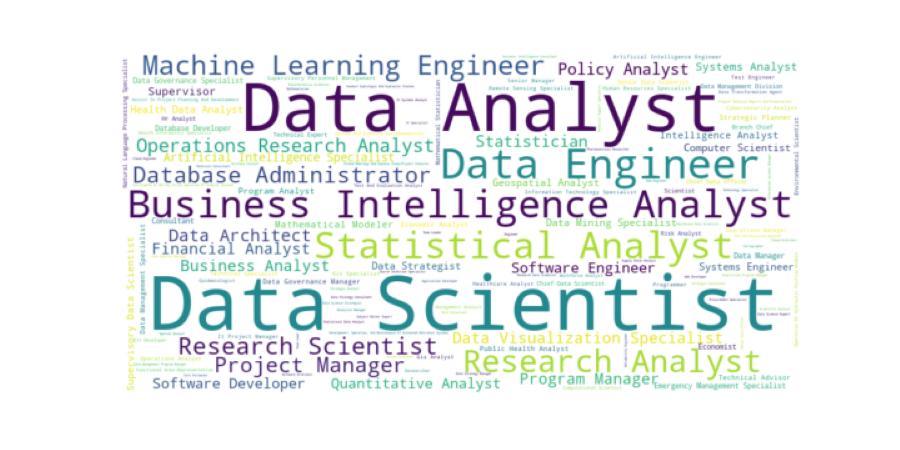
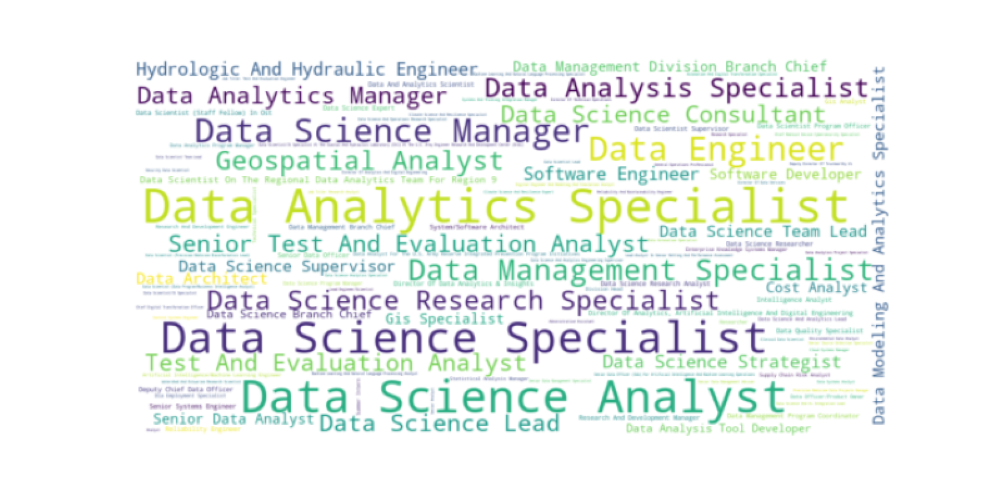
-new presentation draft with update results from marvin

diff --git a/slides.md b/slides.md
@@ -10,7 +10,7 @@ Author: Abigail Haddad Date: October 19, 2023
 
 ------------------------------------------------------------------------
 
-# I'm a data scientist, not a {data analyst, business intelligence analyst, software engineer}
+# I'm a data scientist, not a {data analyst, business intelligence analyst, software engineer, program manager}
 
 # 
 
@@ -51,20 +51,6 @@ Author: Abigail Haddad Date: October 19, 2023
 
 ------------------------------------------------------------------------
 
-# Assessing classification problems
-
-## Derivative metrics
-
-| **Metric**                            | **Value** |
-|---------------------------------------|-----------|
-| Recall (True Positive Rate)           | 95%       |
-| Specificity (True Negative Rate)      | 94%       |
-| Precision (Positive Predictive Value) | 94%       |
-| NPV (Negative Predictive Value)       | 95%       |
-
-------------------------------------------------------------------------
-
-# 
 
 # Back to USAJobs Listings
 
@@ -74,40 +60,47 @@ Author: Abigail Haddad Date: October 19, 2023
 
 # Example 'Duties' Text
 
-![center](images/duties_no_highlights.jpg)
+![center](images/data_engineer_duties.jpg)
 
 ------------------------------------------------------------------------
 
-# Example 'Duties' Text with Highlights
+# This position is officially titled "Data Scientist"
 
-![center](images/duties_highlight.jpg)
+* My model accurately identified it "Data Engineer"
+* Also, this position is misclassified! It's a 2210
+* This is the kind of analysis we can do with this model
 
 ------------------------------------------------------------------------
 
 ## **We can't overcome text ambiguity problems with LLMs. If the information isn't there, it's not there.**
 
+
+------------------------------------------------------------------------
+
+# I'm not going to say who did this
+
+![center](images/cool_story_bro.jpg)
+
+
+
 ------------------------------------------------------------------------
 
 # My MVP Project Workflow
 
-1.  Pulled 843 1560 Data Scientist job listings.
+1.  Pulled ~850 1560 Data Scientist job listings.
 2.  Dropped those with no duty list via length/keyword filter.
-3.  Multi-label classification via GPT-3.5 3a. Assess consistency scores/inter-rater reliability
-4.  Analysis of results 4a. BERT encoding of labels, clustering. 4b. GPT labels of clusters 4c. Word cloud 4d. Ad hoc validation of results
+3.  Used the Marvin library to get structured output from GPT 3.5 for several problems, including the multi-class classification problem.
+4. Ad hoc analysis, iteration
 
 ------------------------------------------------------------------------
 
-# What can we actually get from this?
 
- 
+# The only (Python) code you need
 
- 
+## Or why you should use Marvin (even if you're working in R)
 
- 
+![center](images/only_code_you_need.jpg)
 
- 
-
- 
 
 ------------------------------------------------------------------------
 
@@ -115,8 +108,10 @@ Author: Abigail Haddad Date: October 19, 2023
 
 -   A view of the variety of different roles that are under 1560
 -   A prototype job labeling system for applicants
--   A way to highlight jobs that might be mislabeled or challenging to hire for
+-   A way to highlight jobs that might be mislabeled, challenging to hire for, or misclassified
 -   A variable that might be predictive for research and analysis
+
+------------------------------------------------------------------------
 
 # What this can't be
 
@@ -125,107 +120,65 @@ Author: Abigail Haddad Date: October 19, 2023
 
 ------------------------------------------------------------------------
 
+# What Did We Get? 
 
-
- 
-
- 
-
- 
-
- 
-
- 
-
- 
-
- 
-
- 
-
- 
-
- 
-
-![bg](images/wordcloud.jpeg)
+1. Overall differences in top titles
+2. Job titles that never appear in the official title field
+3. Spot checks
 
 ------------------------------------------------------------------------
 
-| Cluster                               | \%  | Top 5 Titles                                                                                        |
-|----------------|----------------|-----------------------------------------|
-| Data & Project Management             | 34  | Data Scientist, Project Manager, Data Analyst, Program Manager, Supervisor                          |
-| Core Data Science & Engineering       | 22  | Data Scientist, Data Analyst, Machine Learning Engineer, Data Engineer, Statistical Analyst         |
-| Data Science & Research               | 17  | Data Scientist, Data Analyst, Research Scientist, Data Engineer, Database Administrator             |
-| Data Strategy & Specialization        | 16  | Data Analyst, Data Strategist, Geospatial Analyst, Supervisory Data Scientist, Chief Data Scientist |
-| Data Analysis & Research Intelligence | 10  | Data Analyst, Data Scientist, Business Intelligence Analyst, Statistical Analyst, Research Analyst  |
+### Comparing Top 10 Job Titles -- LLM vs. Official
+#
+
+![center](images/top_n_titles.png)
 
 ------------------------------------------------------------------------
 
-# Spot Checking Title Sets
+###
+# New Job Titles
+
+### Some of these are descriptive 🌟🌟🌟
+
+![center](images/wordcloud.png)
+
+------------------------------------------------------------------------
+
+
+# Examples of big title discrepencies
 
 ---
 
-# Data Scientist, Data Analyst, Software Engineer
+## Generated Title: Data Analyst
 
-![center](images/data_sci_data_analyst_software_dev.jpg)
-
----
-
-# Data Scientist, Data Analyst, Business Intelligence Analyst, Machine Learning Engineer, Artificial Intelligence Specialist, Data Engineer
-
-![center](images/data_sci_data_analyst_ml_ai.jpg)
+![center](images/data_analyst.jpg)
 
 ---
 
-# Data [Analyst, Architect, Scientist Manager]
+## Generated Title: Technical Program Manager
 
-![center](images/data_architect.jpg)
+![center](images/tpm.jpg)
+
 
 ----
 
 What's better than ad hoc assessment?
 
-**Systematic assessment!**
+**🎉 Systematic assessment! 🎉**
 
 ------------------------------------------------------------------------
 
-# Derivative Metrics Revisited
 
-| Metric Name               | Acronym | Definition                                                                                            |
-|-------------------------------|------------------|-----------------------|
-| Recall                    | TPR     | The percentage of actual positives that the model correctly identified.                               |
-| Specificity               | TNR     | The percentage of actual negatives that the model correctly identified.                               |
-| Precision                 | PPV     | Out of all the instances labeled as positives by the model, the percentage that are actual positives. |
-| Negative Predictive Value | NPV     | Out of all the instances labeled as negatives by the model, the percentage that are actual negatives. |
+# I tried a lot of other things, too
+
+* Named entity recognition for finding tools and software 🚀 
+* Grouping by category (BI intelligence, management, etc.) 🤷♂
+* Comparing actual titles and generated titles 👎 
 
 ------------------------------------------------------------------------
 
-# Assessment Example with Synthetic Data
 
-| Label           | TPR (Recall) | TNR (Specificity) | PPV (Precision) | NPV |
-|-----------------|--------------|-------------------|-----------------|-----|
-| Data Scientist  | 23%          | 90%               | 26%             | 88% |
-| Project Manager | 33%          | 91%               | 35%             | 90% |
-| Data Analyst    | 32%          | 90%               | 33%             | 90% |
-| Program Manager | 24%          | 90%               | 25%             | 90% |
-| Supervisor      | 28%          | 90%               | 27%             | 90% |
-
-------------------------------------------------------------------------
-
-# **But also, are current labels perfect?**
-
-------------------------------------------------------------------------
-
-# What Can We Do With This?
+# What's next?
 
 -   If you're a federal job seeker or researcher/analyst, let's talk!
--   You might have a text classification problem -- and it might be multi-label.
--   Importance of structured outputs and assessment.
-
-------------------------------------------------------------------------
-
-# Necessary Technical Improvements
-
--   Labeling/assessment
--   Revisit clustering
--   More structured LLM responses (possibly with the Marvin library)
+-   If you have a text classification problem you might like LLMs (and Marvin)
